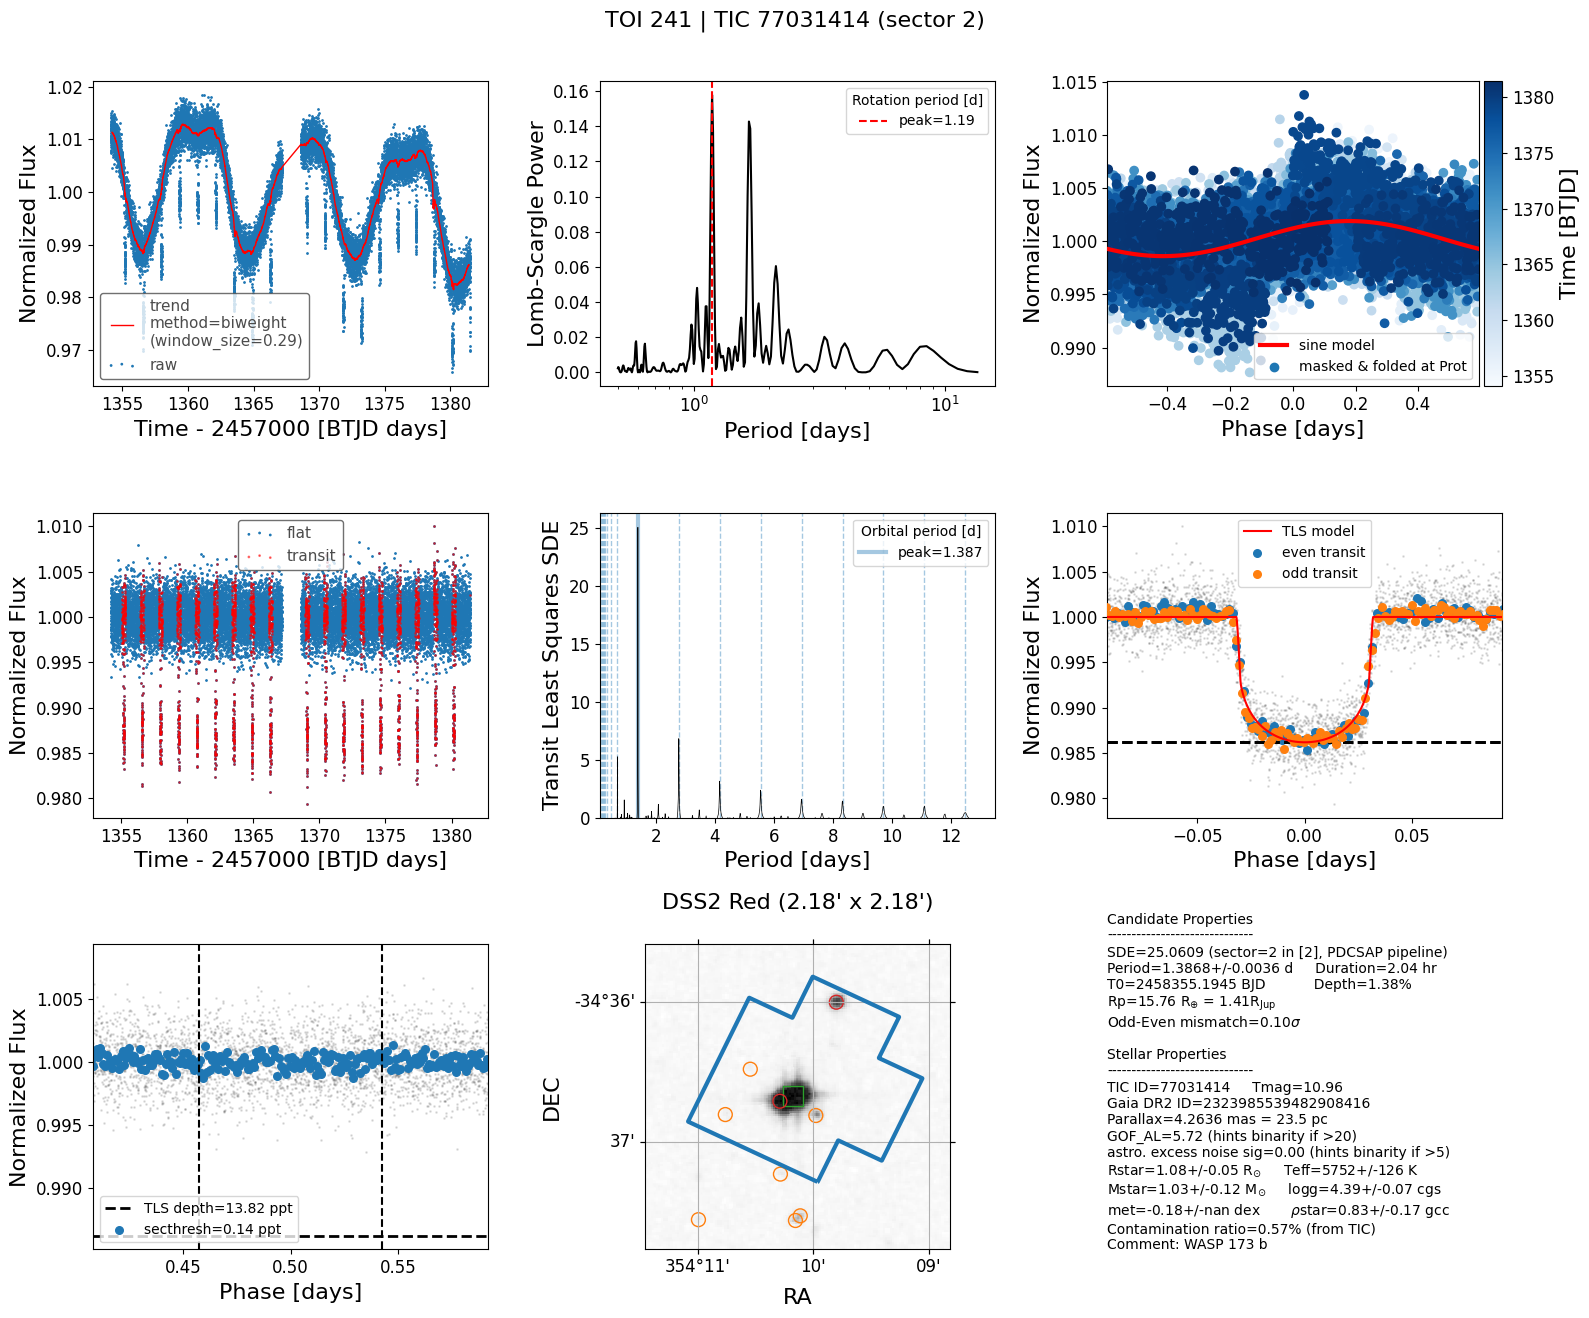
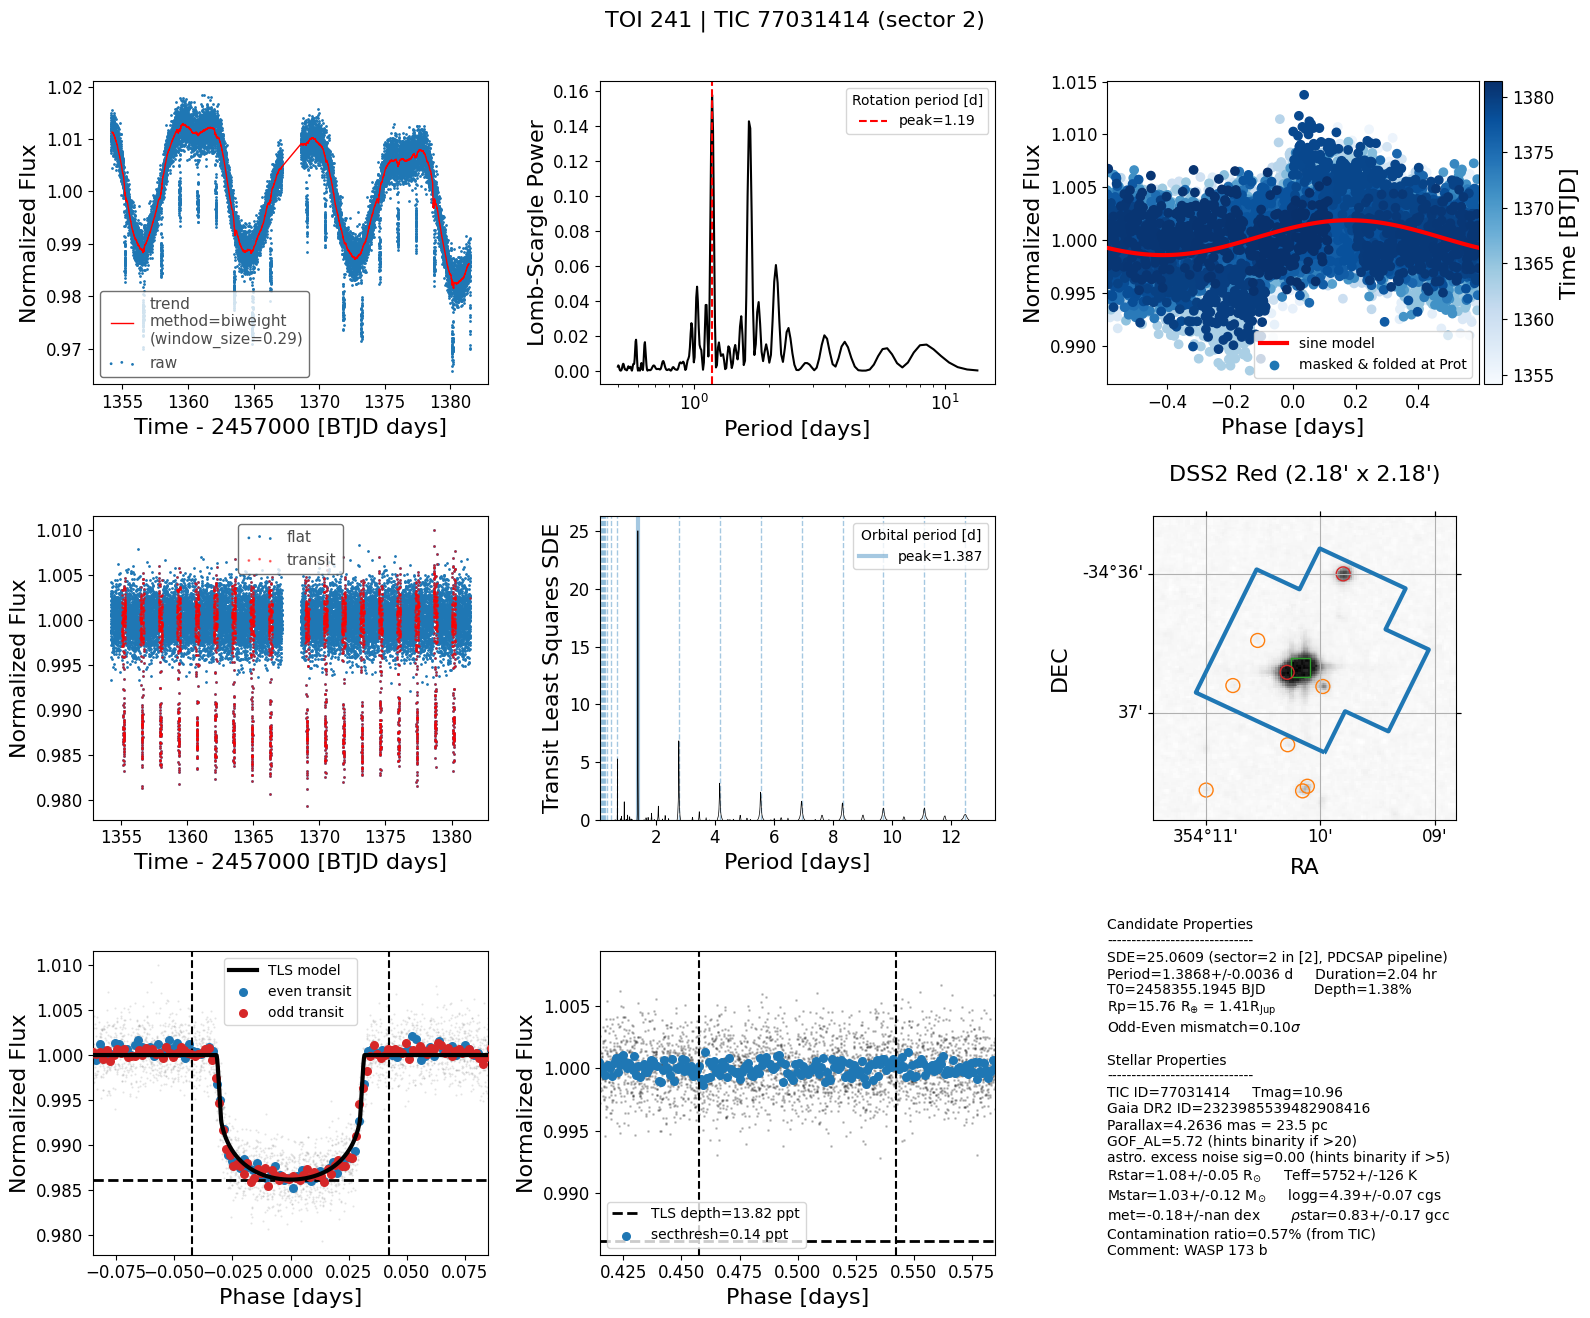
rearrange panels

diff --git a/tql/tql.py b/tql/tql.py
@@ -533,17 +533,6 @@ def plot_tql(
             n_transits_min=2,  # default
         )
 
-        # if l.toi_params["Depth (ppm)"] is None:
-        #     per = tls_results.period
-        #     t0 = tls_results.T0
-        #     depth = 1-tls_results.depth
-        #     t14 = tls_results.duration
-        # else:
-        #     per = l.toi_params["Period (days)"]
-        #     t0 = l.toi_params["Epoch (BJD)"]
-        #     t14 = l.toi_params["Duration (hours)"]/24
-        #     depth = l.toi_params["Depth (ppm)"]/1e6
-
         label = f"peak={tls_results.period:.3f}"
         ax.axvline(tls_results.period, alpha=0.4, lw=3, label=label)
         ax.set_xlim(np.min(tls_results.periods), np.max(tls_results.periods))
@@ -610,33 +599,36 @@ def plot_tql(
         # ax.legend()
 
         # +++++++++++++++++++++ax: odd-even
-        ax = fig.add_subplot(3, 3, 6)
+        ax = fig.add_subplot(3, 3, 7)
         yline = tls_results.depth
-        fold.scatter(ax=ax, c="k", alpha=alpha, label="_nolegend_", zorder=1)
+        fold.scatter(
+            ax=ax, marker=".", c="k", alpha=alpha, label="_nolegend_", zorder=1
+        )
         fold[fold.even_mask].bin(nbins).scatter(
-            label="even transit", s=30, ax=ax, zorder=2
+            label="even transit", c="#1f77b4", s=30, ax=ax, zorder=2
+        )
+        fold[fold.odd_mask].bin(nbins).scatter(
+            label="odd transit", c="#d62728", s=30, ax=ax, zorder=3
         )
         ax.plot(
             tls_results.model_folded_phase - offset,
             tls_results.model_folded_model,
-            color="red",
+            "-k",
+            lw=3,
             zorder=3,
             label="TLS model",
         )
         ax.axhline(yline, 0, 1, lw=2, ls="--", c="k")
-        fold[fold.odd_mask].bin(nbins).scatter(
-            label="odd transit", s=30, ax=ax, zorder=3
-        )
-        ax.axhline(yline, 0, 1, lw=2, ls="--", c="k")
         t14 = tls_results.duration
-        ax.set_xlim(-t14, t14)
         ax.axvline(-t14 / 2, 0, 1, label="__nolegend__", c="k", ls="--")
         ax.axvline(t14 / 2, 0, 1, label="__nolegend__", c="k", ls="--")
         ax.set_xlabel("Phase [days]")
+        ax.set_xlim(-t14, t14)
+        # y1, y2 = ax.get_ylim()
         ax.legend()
 
         # +++++++++++++++++++++ax: secondary eclipse
-        ax = fig.add_subplot(3, 3, 7)
+        ax = fig.add_subplot(3, 3, 8)
         # mask transit and shift phase
         fold2 = flat[~tmask].fold(
             period=tls_results.period,
@@ -656,7 +648,7 @@ def plot_tql(
         ax.axvline(0.5 - t14 / 2, 0, 1, label="__nolegend__", c="k", ls="--")
         ax.axvline(0.5 + t14 / 2, 0, 1, label="__nolegend__", c="k", ls="--")
         """
-        Similar to Mayo+2018, we computed `secthresh` by binning the phase-folded 
+        Similar to Mayo+2018, compute `secthresh` by binning the phase-folded 
         lightcurves by measuring the transit duration and taking thrice the value 
         of the standard deviation of the mean in each bin. 
         """
@@ -680,11 +672,13 @@ def plot_tql(
             # print(mean)
             means.append(mean)
         secthresh = 3 * np.nanstd(means)
+        fold2.scatter(ax=ax, c="k", alpha=alpha, label="_nolegend_", zorder=1)
         fold2.bin(nbins).scatter(
             ax=ax, s=30, label=f"secthresh={secthresh*1e3:.2f} ppt", zorder=2
         )
-        ax.set_xlim(0.5 - t14, 0.5 + t14)
         ax.set_xlabel("Phase [days]")
+        ax.set_xlim(0.5 - t14, 0.5 + t14)
+        # ax.set_ylim(y1, y2)
         ax.legend()
 
         # +++++++++++++++++++++ax7: tpf
@@ -728,7 +722,7 @@ def plot_tql(
                     errmsg = "SkyView returned empty result. Try a different survey."
                     raise ValueError(errmsg)
                 # plot gaia sources on archival image
-                ax = fig.add_subplot(3, 3, 8, projection=WCS(hdu.header))
+                ax = fig.add_subplot(3, 3, 6, projection=WCS(hdu.header))
                 _ = plot_gaia_sources_on_survey(
                     tpf=tpf,
                     target_gaiaid=l.gaiaid,
@@ -748,7 +742,7 @@ def plot_tql(
                 print(f"{survey} image query failed.\n{e}")
                 # plot gaia sources on tpf
                 ax.clear()
-                ax = fig.add_subplot(3, 3, 8)
+                ax = fig.add_subplot(3, 3, 6)
                 _ = plot_gaia_sources_on_tpf(
                     tpf=tpf,
                     target_gaiaid=l.gaiaid,
@@ -766,7 +760,7 @@ def plot_tql(
                 )
         else:
             # plot gaia sources on tpf
-            ax = fig.add_subplot(3, 3, 8)
+            ax = fig.add_subplot(3, 3, 6)
             _ = plot_gaia_sources_on_tpf(
                 tpf=tpf,
                 target_gaiaid=l.gaiaid,
@@ -956,7 +950,7 @@ def plot_tql(
             title = f"TOI {l.toiid} | TIC {l.ticid} (sector {l.sector})"
             if l.toi_params["Comments"]:
                 comment = f"Comment: {l.toi_params['Comments']}"
-                msg += "\n".join(textwrap.wrap(comment, 60))
+                msg += "\n".join(textwrap.wrap(comment, 50))
         else:
             title = f"TIC {l.ticid} (sector {l.sector})"
 

diff --git a/README.md b/README.md
@@ -104,10 +104,10 @@ The generated figure shows 9 panels (see plot below):
 * middle row
   * left: flattened lightcurve and transit (determined from TLS on the right)
   * middle: TLS periodogram
-  * right: phase-folded lightcurve at orbital period of odd and even transits with transit depth reference
+  * right: tpf with overlaid TESS aperture and annotated gaia sources
 * bottom row
-  * left: phase-folded lightcurve zoomed at phase 0.5 to see secondary eclipse
-  * middle: tpf with overlaid TESS aperture and annotated gaia sources
+  * left: phase-folded lightcurve at orbital period of odd and even transits with transit depth referenceeclipse
+  * middle: phase-folded lightcurve zoomed at phase 0.5 to see secondary 
   * right: summary info
 
 ```shell
